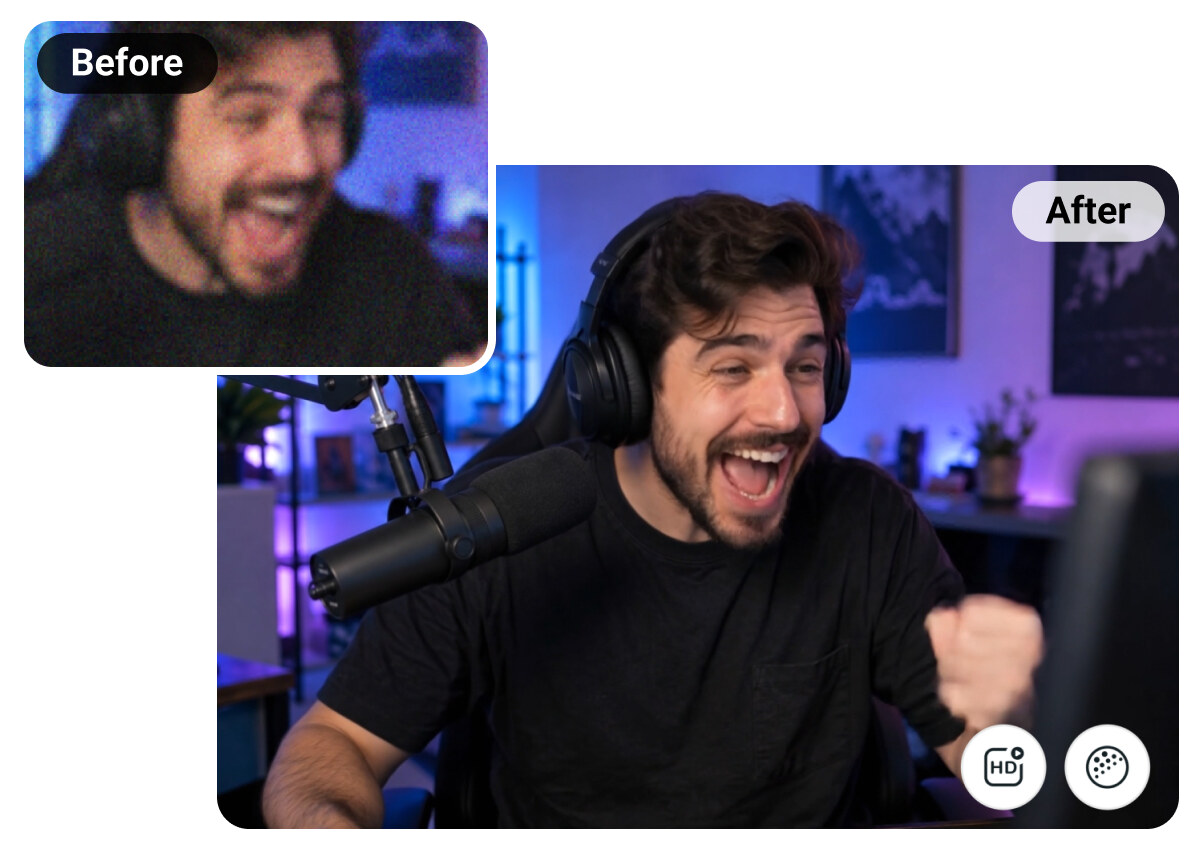
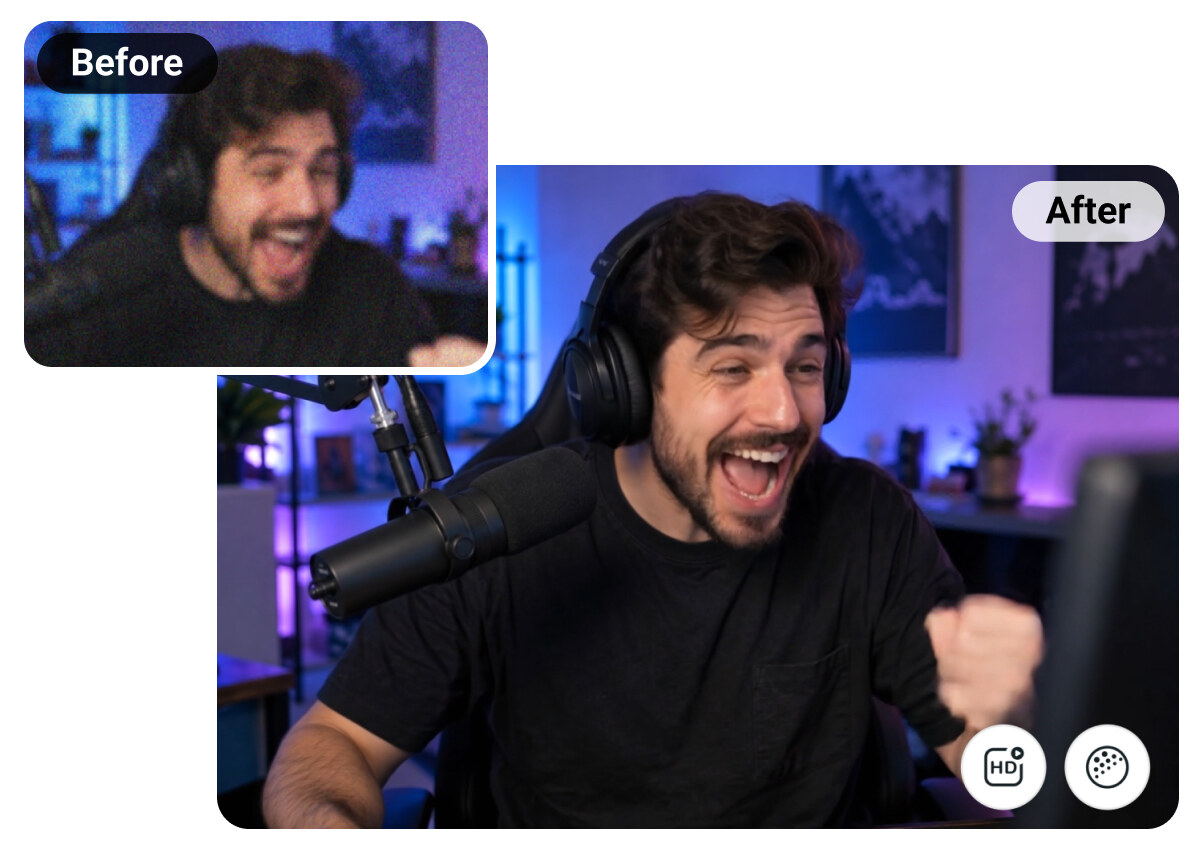
Update the Live Stream image (new Before inset crop)

Changed region(s): [[0.0, 0.0, 0.4317, 0.4599]]

diff --git a/index.html b/index.html
@@ -239,7 +239,7 @@
             <div class="zigzag__cta"><a class="btn btn-primary" href="#">Try It Now</a><a class="btn btn-outline" href="#">Download App</a></div>
           </div>
           <div class="zigzag__media">
-            <img src="assets/page/img/live-stream.jpg?v=1791360316" alt="Turn Live Stream Recordings Into Highlight-Ready Content">
+            <img src="assets/page/img/live-stream.jpg?v=1791361395" alt="Turn Live Stream Recordings Into Highlight-Ready Content">
           </div>
         </div>
       </div>
